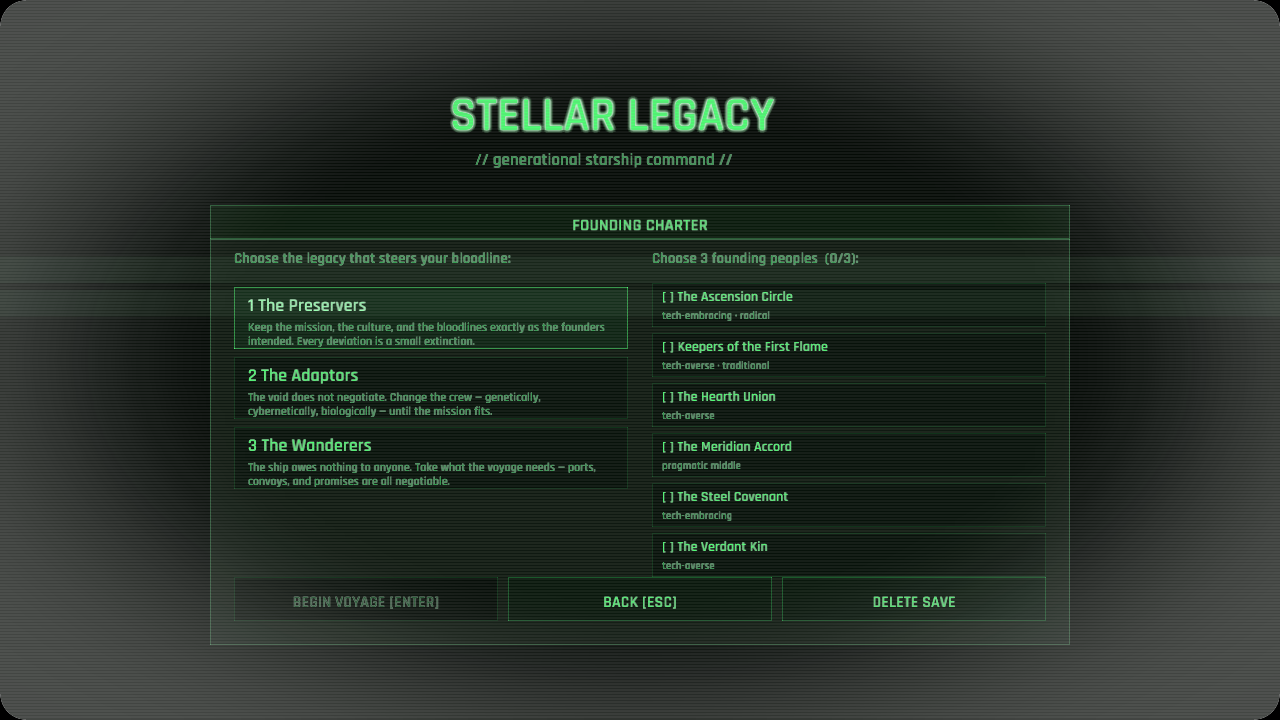
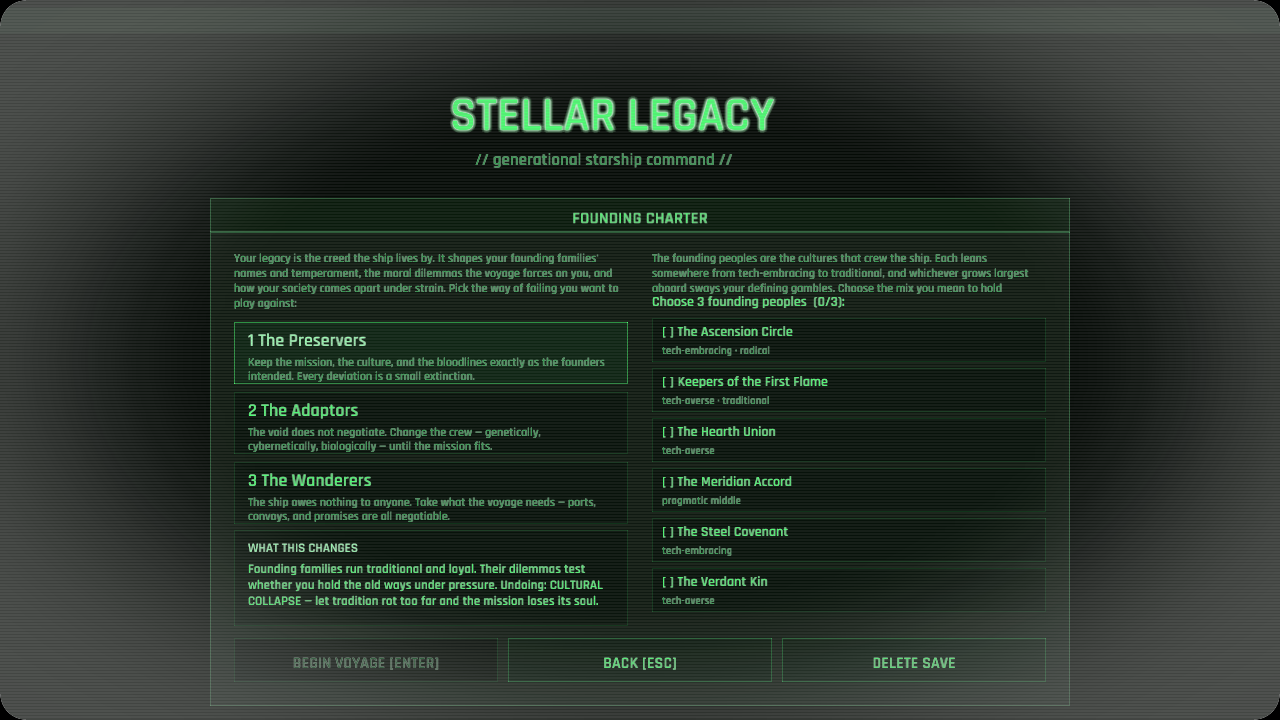
A commander shown the stakes chooses the surer legacy (GDD 5.5 <-> 3)
Before: the new-game screen let a first commander pick a legacy and a founding
crew, but told them almost nothing. The legacy cards showed a line of flavor and
no hint that the choice steers founding-family temperament, the dilemmas the
voyage forces, or the very shape of the ship's undoing (cultural collapse,
humanity loss, fleet dissolution) — so a live, consequential decision read as
window dressing, and more than one player wondered if it was wired to anything at
all. The founding-peoples column was a bare checklist, and nothing anywhere laid
out the core loop for someone opening the game cold.

After: three data-driven strands of guidance, all text authored in assets per the
hard rule. Each legacy carries an `effects` line, surfaced in a WHAT THIS CHANGES
callout beside the cards so the focused pick names its own mechanical weight. Both
columns gain an intro paragraph (tutorial.legacy_intro / factions_intro)
explaining what the choice does. And a first-run ORIENTATION overlay
(config.welcome, src/ui/welcome.rs) briefs a new commander on the voyage, their
people, and command in three beats — shown once per install, gated on a persisted
Onboarding{welcome_seen} flag that lives outside the campaign save so deleting a
voyage does not resurrect it. Any key or its button dismisses it; while up it
swallows the menu beneath.

The new-game panel grew to seat the intros and the callout without crowding the
[…]

diff --git a/src/game.rs b/src/game.rs
@@ -79,6 +79,10 @@ pub struct Game {
     settings_open: bool,
     /// Whether the F2 help/controls overlay is open.
     help_open: bool,
+    /// One-time onboarding flags (persisted separately from the campaign save).
+    onboarding: crate::settings::Onboarding,
+    /// Whether the first-run welcome overlay is showing (once per install).
+    welcome_open: bool,
     /// Terminal typewriter reveal for blocking modals: which modal is showing
     /// and when it appeared, so its body text streams in. Purely cosmetic —
     /// never touches the deterministic sim.
@@ -149,6 +153,10 @@ impl Game {
         let _ = assets.load_texture_configs(&data.texture_manifest).await;
 
         let achievements = crate::achievements::load(&data.config.game_name);
+        // The first-run welcome overlay shows once per install, after the boot
+        // log, until the player dismisses it (which persists the flag).
+        let onboarding = crate::settings::Onboarding::load(&data.config.game_name);
+        let welcome_open = !onboarding.welcome_seen;
 
         Self {
             data,
@@ -165,6 +173,8 @@ impl Game {
             delegation_defaults,
             settings_open: false,
             help_open: false,
+            onboarding,
+            welcome_open,
             modal_key: None,
             modal_started: 0.0,
             mission_started: None,
@@ -183,6 +193,17 @@ impl Game {
 
     pub fn update(&mut self, dt: f32) {
         self.notifications.update(dt);
+
+        // First-run welcome overlay sits above the menu once the boot log ends.
+        // Any key dismisses it (its button is handled in draw); until then, no
+        // other input runs and any menu intents queued beneath it are dropped.
+        if self.boot.is_done() && self.welcome_open {
+            if get_last_key_pressed().is_some() {
+                self.dismiss_welcome();
+            }
+            let _ = self.events.drain();
+            return;
+        }
 
         // F10 toggles the CRT effect outright; F1 opens the display panel.
         if is_key_pressed(KeyCode::F10) {
@@ -431,10 +452,15 @@ impl Game {
             Vec::new()
         };
         let help_close = self.help_open && ui::help::draw(virtual_ui.mouse_position());
+        // First-run welcome overlay, above the menu only; its button dismisses it.
+        let welcome_dismiss = self.welcome_open
+            && matches!(self.state, GameState::Menu(_))
+            && ui::welcome::draw(&self.data.config.welcome, virtual_ui.mouse_position());
         end_virtual_ui_frame();
 
-        // While a panel is open, swallow the underlying screen's intents.
-        if !self.settings_open && !self.help_open {
+        // While a panel or the welcome overlay is open, swallow the underlying
+        // screen's intents.
+        if !self.settings_open && !self.help_open && !self.welcome_open {
             for action in actions {
                 self.events.push(action);
             }
@@ -444,6 +470,9 @@ impl Game {
         }
         if help_close {
             self.help_open = false;
+        }
+        if welcome_dismiss {
+            self.dismiss_welcome();
         }
 
         self.notifications
@@ -465,6 +494,20 @@ impl Game {
         if let Err(err) = self.display.save(&self.data.config.game_name) {
             self.notifications
                 .warning(format!("Display settings not saved: {err}"));
+        }
+    }
+
+    /// Close the first-run welcome overlay and remember it was seen, so it never
+    /// shows again on this install.
+    fn dismiss_welcome(&mut self) {
+        if !self.welcome_open {
+            return;
+        }
+        self.welcome_open = false;
+        self.onboarding.welcome_seen = true;
+        if let Err(err) = self.onboarding.save(&self.data.config.game_name) {
+            self.notifications
+                .warning(format!("Onboarding flag not saved: {err}"));
         }
     }
 

diff --git a/src/ui.rs b/src/ui.rs
@@ -16,6 +16,7 @@ pub mod prep;
 pub mod settings;
 pub mod ship_builder;
 pub mod subsystems;
+pub mod welcome;
 
 use crate::chronicle::ChronicleStore;
 use crate::data::events::EventCategory;
@@ -428,23 +429,30 @@ fn draw_new_game(ctx: &MenuCtx<'_>) -> Vec<UiAction> {
     }
 
     let starting = ctx.data.config.factions.starting_count as usize;
-    let panel = Rect::new(LOGICAL_WIDTH / 2.0 - 430.0, 205.0, 860.0, 440.0);
+    let tut = &ctx.data.config.tutorial;
+    let panel = Rect::new(LOGICAL_WIDTH / 2.0 - 430.0, 198.0, 860.0, 508.0);
     term_panel(panel, Some("FOUNDING CHARTER"));
     let content = panel.inset(24.0);
     let col_gap = 24.0;
     let col_w = (content.w - col_gap) / 2.0;
     let left_x = content.x;
     let right_x = content.x + col_w + col_gap;
+    // Both columns share a header band: an intro block explaining the choice,
+    // then the pickable list below it. `list_top` is where each list starts.
+    let list_top = content.y + 92.0;
 
     // --- Left column: the legacy that steers the bloodline ---
-    let mut y = content.y + 34.0;
-    draw_ui_text_ex(
-        "Choose the legacy that steers your bloodline:",
+    draw_text_block(
+        &tut.legacy_intro,
         left_x,
-        y,
-        TextStyle::new(15.0, term::dim()).params(),
+        content.y + 28.0,
+        col_w,
+        58.0,
+        14.0,
+        3.0,
+        term::dim(),
     );
-    y += 16.0;
+    let mut y = list_top;
     for (i, legacy_id) in ctx.legacy_ids.iter().enumerate() {
         let Some(legacy) = ctx.data.legacies.get(legacy_id) else {
             continue;
@@ -497,24 +505,63 @@ fn draw_new_game(ctx: &MenuCtx<'_>) -> Vec<UiAction> {
         y += 70.0;
     }
 
+    // A "what this changes" callout for the focused legacy, so the pick reads as
+    // a mechanical choice and not just flavor. Text is the legacy's own `effects`.
+    if let Some(legacy) = ctx
+        .legacy_ids
+        .get(ctx.menu.selected_legacy)
+        .and_then(|id| ctx.data.legacies.get(id))
+    {
+        let callout = Rect::new(left_x, y + 6.0, col_w, content.bottom() - (y + 6.0) - 56.0);
+        draw_surface(
+            callout,
+            &SurfaceStyle::new(term::surface_inset()).with_border(1.0, term::faint()),
+        );
+        draw_ui_text_ex(
+            "WHAT THIS CHANGES",
+            callout.x + 14.0,
+            callout.y + 22.0,
+            TextStyle::new(13.0, term::accent()).params(),
+        );
+        draw_text_block(
+            &legacy.effects,
+            callout.x + 14.0,
+            callout.y + 30.0,
+            callout.w - 28.0,
+            callout.h - 40.0,
+            13.0,
+            3.0,
+            term::primary(),
+        );
+    }
+
     // --- Right column: the founding peoples (W7) — pick exactly `starting` ---
     let chosen = ctx.menu.selected_factions.len();
-    let mut fy = content.y + 34.0;
+    draw_text_block(
+        &tut.factions_intro,
+        right_x,
+        content.y + 28.0,
+        col_w,
+        50.0,
+        14.0,
+        3.0,
+        term::dim(),
+    );
     draw_ui_text_ex(
         &format!("Choose {starting} founding peoples  ({chosen}/{starting}):"),
         right_x,
-        fy,
+        content.y + 84.0,
         TextStyle::new(
-            15.0,
+            14.0,
             if chosen == starting {
                 term::accent()
             } else {
-                term::dim()
+                term::primary()
             },
         )
         .params(),
     );
-    fy += 16.0;
+    let mut fy = list_top;
     for id in GameData::sorted_ids(&ctx.data.factions) {
         let Some(faction) = ctx.data.factions.get(&id) else {
             continue;

diff --git a/src/ui/welcome.rs b/src/ui/welcome.rs
@@ -1,0 +1,80 @@
+//! First-run WELCOME overlay: a dismissible full-screen briefing shown once per
+//! install (gated on a saved flag) over the main menu, orienting a new commander
+//! before they choose a legacy. Pure view — returns true on the frame the player
+//! dismisses it (button click); the game also treats any keypress as dismiss, to
+//! honor the "press any key" label. All text is data (`config.welcome`).
+
+use crate::data::WelcomeConfig;
+use crate::ui::{term, term_button, term_panel, LOGICAL_HEIGHT, LOGICAL_WIDTH};
+use macroquad::prelude::*;
+use macroquad_toolkit::prelude::*;
+use macroquad_toolkit::ui::{draw_text_block, draw_ui_text_ex, RectExt};
+
+/// Draw the overlay. Returns true when the player clicks the dismiss button.
+pub fn draw(welcome: &WelcomeConfig, mouse: Vec2) -> bool {
+    // Dim the menu behind the briefing.
+    draw_rectangle(
+        0.0,
+        0.0,
+        LOGICAL_WIDTH,
+        LOGICAL_HEIGHT,
+        Color::new(0.0, 0.0, 0.0, 0.82),
+    );
+
+    let panel = Rect::new(
+        LOGICAL_WIDTH / 2.0 - 380.0,
+        LOGICAL_HEIGHT / 2.0 - 300.0,
+        760.0,
+        600.0,
+    );
+    term_panel(panel, Some("STELLAR LEGACY // ORIENTATION"));
+    let content = panel.inset(30.0);
+
+    let mut y = content.y + 34.0;
+    draw_ui_text_ex(
+        &welcome.title,
+        content.x,
+        y,
+        TextStyle::new(24.0, term::primary()).params(),
+    );
+    y += 30.0;
+    let intro = draw_text_block(
+        &welcome.intro,
+        content.x,
+        y,
+        content.w,
+        56.0,
+        15.0,
+        4.0,
+        term::dim(),
+    );
+    y += intro.lines.len() as f32 * 21.0 + 16.0;
+
+    for section in &welcome.sections {
+        draw_ui_text_ex(
+            &section.heading,
+            content.x,
+            y,
+            TextStyle::new(15.0, term::accent()).params(),
+        );
+        y += 22.0;
+        let body = draw_text_block(
+            &section.body,
+            content.x,
+            y,
+            content.w,
+            84.0,
+            14.0,
+            4.0,
+            term::primary(),
+        );
+        y += body.lines.len() as f32 * 20.0 + 18.0;
+    }
+
+    term_button(
+        Rect::new(content.x, content.bottom() - 44.0, content.w, 40.0),
+        &welcome.dismiss_label,
+        true,
+        mouse,
+    )
+}

diff --git a/src/data.rs b/src/data.rs
@@ -371,6 +371,8 @@ pub struct GameConfig {
     pub provisioning: ProvisioningConfig,
     /// First-voyage tutorial content: the drydock hint and PREP checklist.
     pub tutorial: TutorialConfig,
+    /// First-run welcome overlay content (shown once, per install).
+    pub welcome: WelcomeConfig,
     /// Ship-subsystem knowledge/training tunables (W5).
     pub subsystems: SubsystemsConfig,
     /// Seeded-campaign-skeleton beat pools + era layering (content-depth).
@@ -1570,8 +1572,29 @@ pub struct TutorialConfig {
     pub drydock_hint: String,
     /// The same line's everyday text once the tutorial is over.
     pub drydock_refit_hint: String,
+    /// Explains the legacy column on the new-game screen (what the choice does).
+    pub legacy_intro: String,
+    /// Explains the founding-peoples column on the new-game screen.
+    pub factions_intro: String,
     /// Ordered pre-launch checklist steps for the PREP screen.
     pub steps: Vec<TutorialStep>,
+}
+
+/// One captioned block of the first-run welcome overlay.
+#[derive(Debug, Clone, Serialize, Deserialize)]
+pub struct WelcomeSection {
+    pub heading: String,
+    pub body: String,
+}
+
+/// First-run welcome overlay content (shown once, gated on a saved flag). All
+/// text is data, per the hard rule; the overlay itself lives in `ui::welcome`.
+#[derive(Debug, Clone, Serialize, Deserialize)]
+pub struct WelcomeConfig {
+    pub title: String,
+    pub intro: String,
+    pub sections: Vec<WelcomeSection>,
+    pub dismiss_label: String,
 }
 
 /// archetype; recruiting fills a vacancy, training raises the holder's

diff --git a/src/settings.rs b/src/settings.rs
@@ -13,6 +13,31 @@ pub const DISPLAY_KEY: &str = "display";
 /// Persistence key for the default per-category council delegation (GDD §5.4)
 /// applied to each new voyage.
 pub const DELEGATION_KEY: &str = "delegation";
+/// Persistence key for one-time onboarding flags (first-run welcome overlay).
+pub const ONBOARDING_KEY: &str = "onboarding";
+
+/// One-time onboarding progress. Lives outside the sim save so it survives
+/// deleting a campaign — the welcome overlay is shown once per install, not
+/// once per voyage. All fields `serde(default)` so an absent/partial blob reads
+/// as "nothing seen yet".
+#[derive(Debug, Clone, Copy, Default, Serialize, Deserialize)]
+#[serde(default)]
+pub struct Onboarding {
+    /// Whether the player has dismissed the first-run welcome overlay.
+    pub welcome_seen: bool,
+}
+
+impl Onboarding {
+    /// Loads onboarding flags, defaulting to "nothing seen" on a fresh install.
+    pub fn load(game_name: &str) -> Self {
+        load_json_key(game_name, ONBOARDING_KEY).unwrap_or_default()
+    }
+
+    /// Persists the onboarding flags.
+    pub fn save(&self, game_name: &str) -> Result<(), String> {
+        save_json_key(game_name, ONBOARDING_KEY, self)
+    }
+}
 
 /// Load the persisted default delegation for new campaigns (all-council if
 /// never set).

diff --git a/src/game/capture_scenes.rs b/src/game/capture_scenes.rs
@@ -18,12 +18,20 @@ impl Game {
         self.instant_reveal = true;
         self.capture_run_secs = None;
         self.boot.finish();
+        // The first-run welcome overlay would otherwise sit over every menu
+        // scene; scenes opt into it explicitly (the "welcome" scene below).
+        self.welcome_open = false;
         self.display = crate::settings::DisplaySettings::default();
         self.crt_style = self.display.crt_style();
         ui::term::set_phosphor(self.display.phosphor);
         self.delegation_defaults = crate::state::sim::DelegationSettings::default();
         match scene {
             "menu" => self.state = crate::state::GameState::Menu(MenuState::new(false)),
+            "welcome" => {
+                // The first-run orientation overlay above the main menu.
+                self.state = crate::state::GameState::Menu(MenuState::new(false));
+                self.welcome_open = true;
+            }
             "green" => {
                 // The new-game picker on the green (P1) tube, to verify the recolor.
                 self.display.phosphor = crate::settings::Phosphor::Green;

diff --git a/src/data/legacies.rs b/src/data/legacies.rs
@@ -51,6 +51,10 @@ pub struct LegacyDef {
     pub id: String,
     pub name: String,
     pub description: String,
+    /// One-line summary of what picking this legacy actually changes in play —
+    /// founding-family temperament, the dilemmas it forces, and its undoing.
+    /// Shown on the new-game legacy card so the choice reads as consequential.
+    pub effects: String,
     /// Failure-condition name: cultural_collapse / humanity_loss / fleet_dissolution.
     pub failure_risk: String,
     pub dilemmas: Vec<DilemmaDef>,
